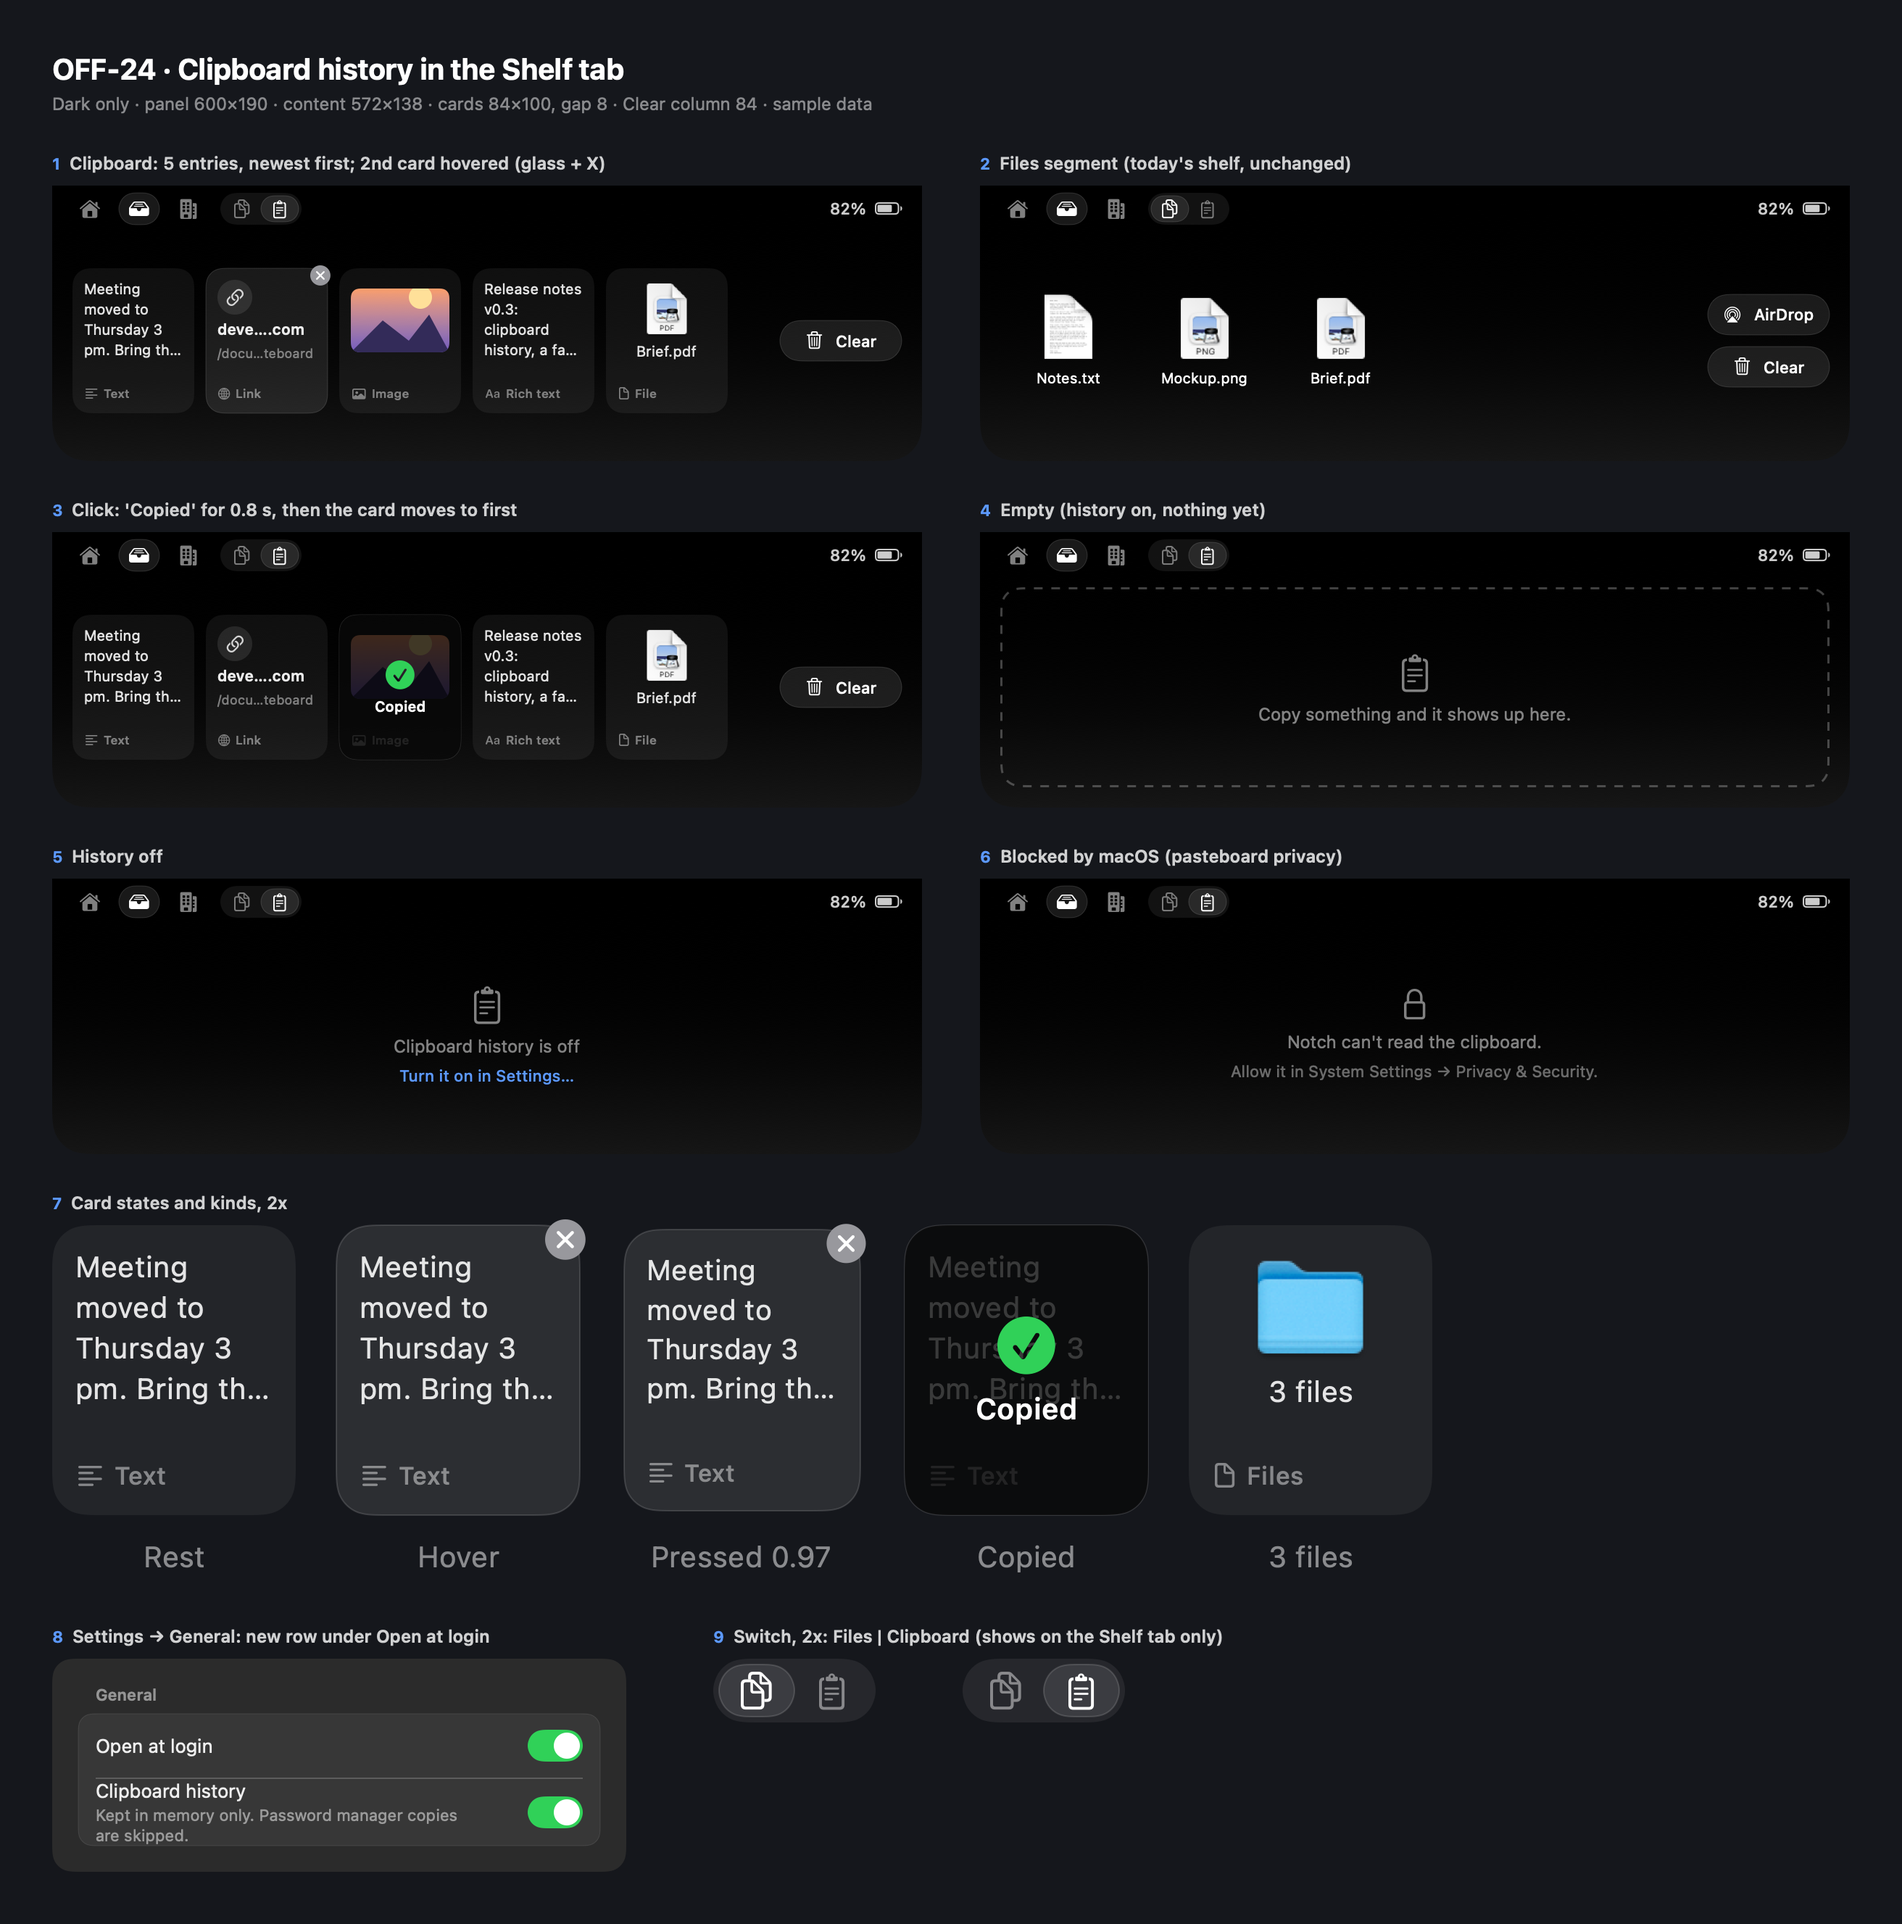
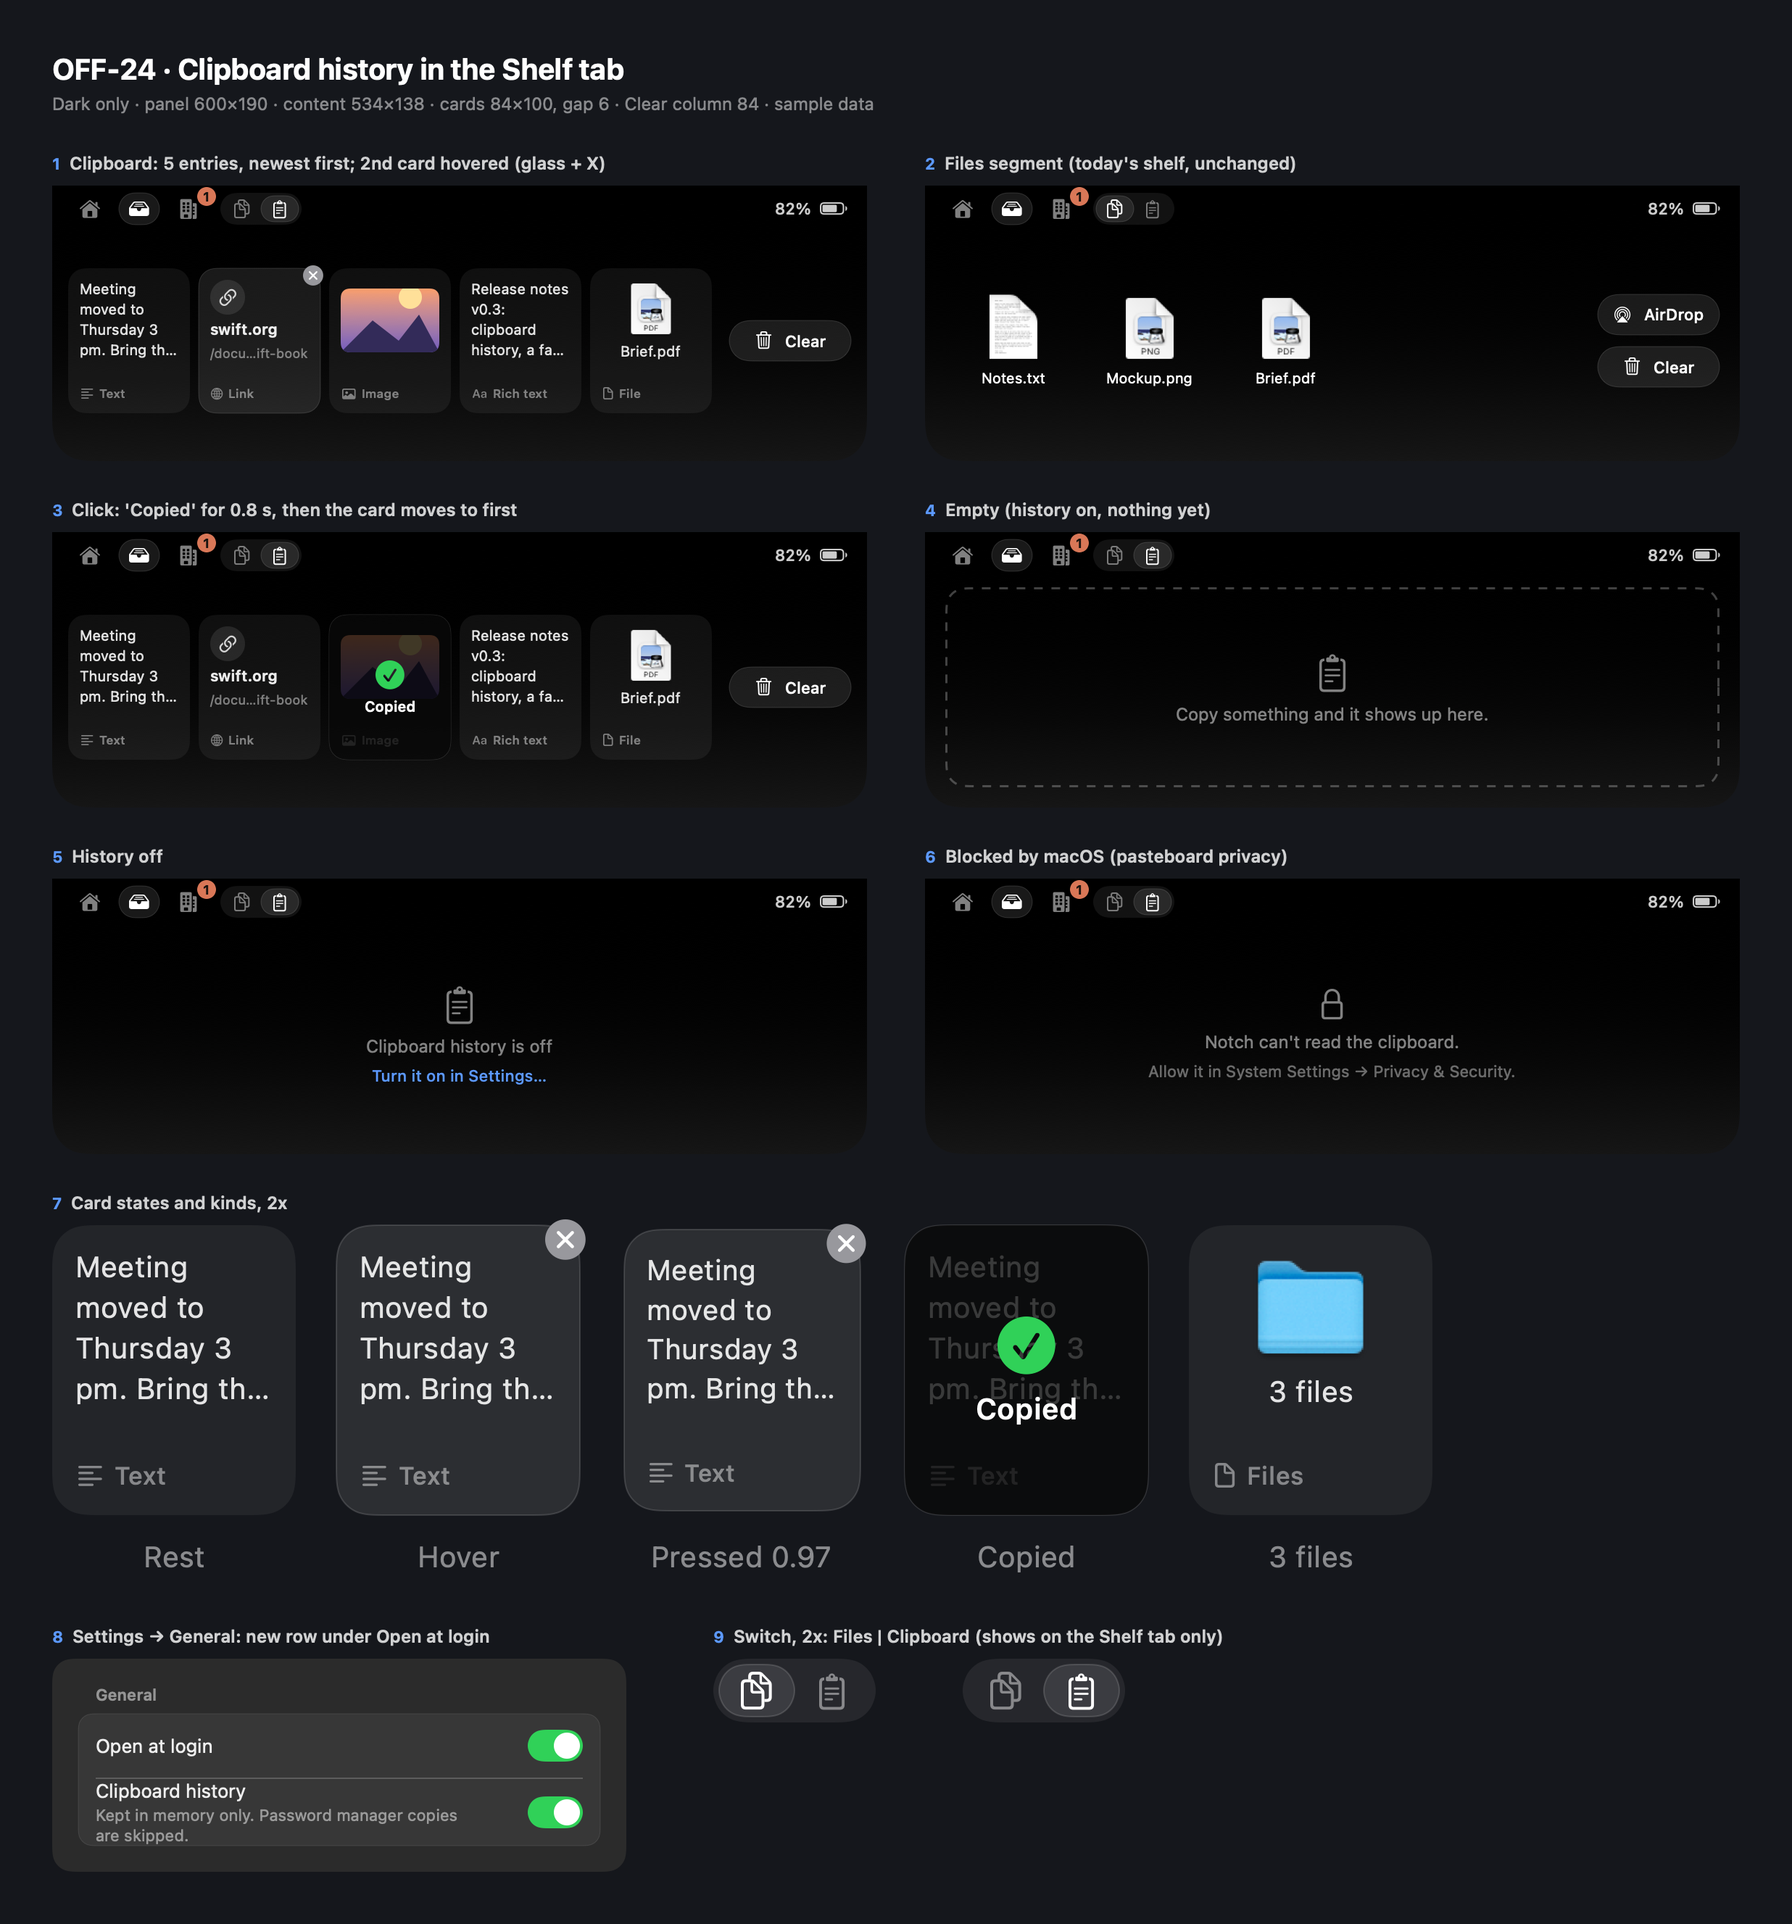
README: clipboard history section and demo (OFF-24)
Own feature section with an animated demo and a still, a Clipboard row in
Permissions, the Settings toggle in the list and screenshot. Clipboard
spec v1.1 and mockup (534 pt content, gap 6).

diff --git a/README.md b/README.md
@@ -8,7 +8,7 @@
 </p>
 
 <p align="center">
-  Music, live widgets and a file shelf in a liquid glass panel that grows out of the notch.<br>
+  Music, live widgets, a file shelf and clipboard history in a liquid glass panel that grows out of the notch.<br>
   Native SwiftUI, no dependencies.
 </p>
 
@@ -61,6 +61,19 @@
 </p>
 
 <img src="Resources/readme/feature-shelf-dark.png" alt="The shelf tab holding three files, one hovered with its remove X, plus AirDrop and Clear buttons">
+
+<a id="clipboard"></a>
+<h3 align="center">📋 Clipboard history</h3>
+<p align="center">
+  Your last 5 copies, one switch away: flip the Shelf tab to <b>Clipboard</b>.<br>
+  Text, rich text, images, files and links, newest first. Click one to copy it again, or drag it out.<br>
+  Kept in memory only, never on disk, and gone when Notch quits. Password managers and hidden copies are skipped.<br>
+  Don't want it? Turn off <b>Clipboard history</b> in Settings.
+</p>
+
+<img src="Resources/readme/feature-clipboard-dark.gif" alt="Animated: the shelf flips from Files to Clipboard; text is copied with Command-C and slides into the strip as a new card; hovering the rich text card shows its X, and a click shows Copied and moves it to the front">
+
+<img src="Resources/readme/feature-clipboard-dark.png" alt="The shelf tab switched to Clipboard: five recent copies as cards (text, a link, an image, rich text and a PDF file) with a Clear button">
 
 <h3 align="center">↗ One click to your apps</h3>
 <p align="center">
@@ -148,6 +161,7 @@ Notch asks for each permission only when a feature first needs it, and records n
 | **Automation** (Music / Spotify) | Notch first sees Spotify or Music playing | To read the track and artwork, and to play, skip, shuffle and repeat |
 | **Audio capture** | Music first plays while Notch runs | To listen to the music app only, so the bars move with it. Nothing is recorded or saved. |
 | **Location** | You first pick the Weather widget | City-level, for the forecast (weather from [Open-Meteo](https://open-meteo.com)) |
+| **Clipboard** | Notch first reads a copy, only if macOS is set to ask | For clipboard history. If access is denied, the Clipboard view says so; allow it in System Settings → Privacy & Security → Paste from Other Apps. |
 
 Builds are ad-hoc signed, so macOS may ask again after you rebuild.
 
@@ -155,10 +169,10 @@ Builds are ad-hoc signed, so macOS may ask again after you rebuild.
 
 ## Settings
 
-<img src="Resources/readme/feature-settings-dark.png" alt="The Notch Settings window with Panel and General cards">
+<img src="Resources/readme/feature-settings-dark.png" alt="The Notch Settings window with Panel and General cards, including the Clipboard history toggle under Open at login">
 
 <p align="center">
-  Panel opacity and size · Music app · Widget · Open at login
+  Panel opacity and size · Music app · Widget · Open at login · Clipboard history
 </p>
 
 <br>

diff --git a/Resources/design/clipboard-spec.md b/Resources/design/clipboard-spec.md
@@ -1,8 +1,10 @@
-# OFF-24 spec: clipboard history in the Shelf tab (v1.0)
+# OFF-24 spec: clipboard history in the Shelf tab (v1.1)
+
+v1.1: content width is 534 (Dwight measured), so the card gap and strip spacing are 6 (Jim's fix, adopted).
 
 Next action: Jim builds per this spec after the plan's pasteboard spike (clipboard-plan.md, section 5, step 1).
 
-Mockup: `clipboard-mockup.png` (9 panels). Dark only. Uses only existing tokens: white at opacities, system green, the link blue, and the current glass helpers (`.glass`, `.glassGroup`). Panel stays 600×190, content area 572×138 (padding 14 sides and bottom, 6 top).
+Mockup: `clipboard-mockup.png` (9 panels). Dark only. Uses only existing tokens: white at opacities, system green, the link blue, and the current glass helpers (`.glass`, `.glassGroup`). Panel stays 600×190; the Shelf content area is 534×138 (measured).
 
 ## 1. Files | Clipboard switch (tab row)
 - Where: `TabBar` HStack, right after the tab group, only when `model.tab == .shelf`, with `.padding(.leading, 2)` (8pt after the last tab), same pattern as `OfficePet`. The badge overlay stays on the tab group.
@@ -12,7 +14,7 @@ Mockup: `clipboard-mockup.png` (9 panels). Dark only. Uses only existing tokens:
 - Choice remembered for the session only (`@State` in the model, not AppStorage). A file drop on the panel switches to Files.
 
 ## 2. Clipboard strip
-`HStack(spacing: 10)`: cards `HStack(spacing: 8)` (5 × 84 + 4 × 8 = 452), `Spacer(minLength: 0)`, then the action column: one Clear button, the same `shelfButton("trash", label: "Clear")` (84×28 glass capsule), vertically centred. No AirDrop. Clear hidden when the list is empty, off or blocked. Newest card first (leading). No scroll view needed (max 5).
+`HStack(spacing: 6)`: cards `HStack(spacing: 6)` (5 × 84 + 4 × 6 = 444; + 6 + 84 = 534), `Spacer(minLength: 0)`, then the action column: one Clear button, the same `shelfButton("trash", label: "Clear")` (84×28 glass capsule), vertically centred. No AirDrop. Clear hidden when the list is empty, off or blocked. Newest card first (leading). No scroll view needed (max 5).
 
 ## 3. Card (84×100, radius 12 continuous)
 - Padding 8. Content top-leading; footer at the bottom.
